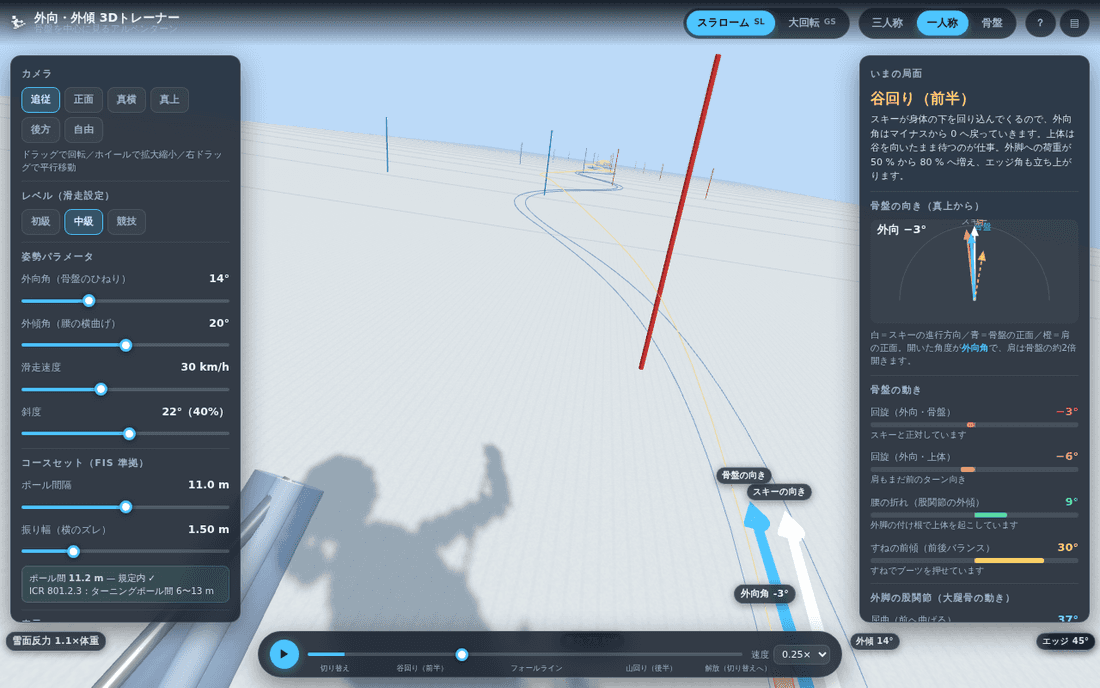
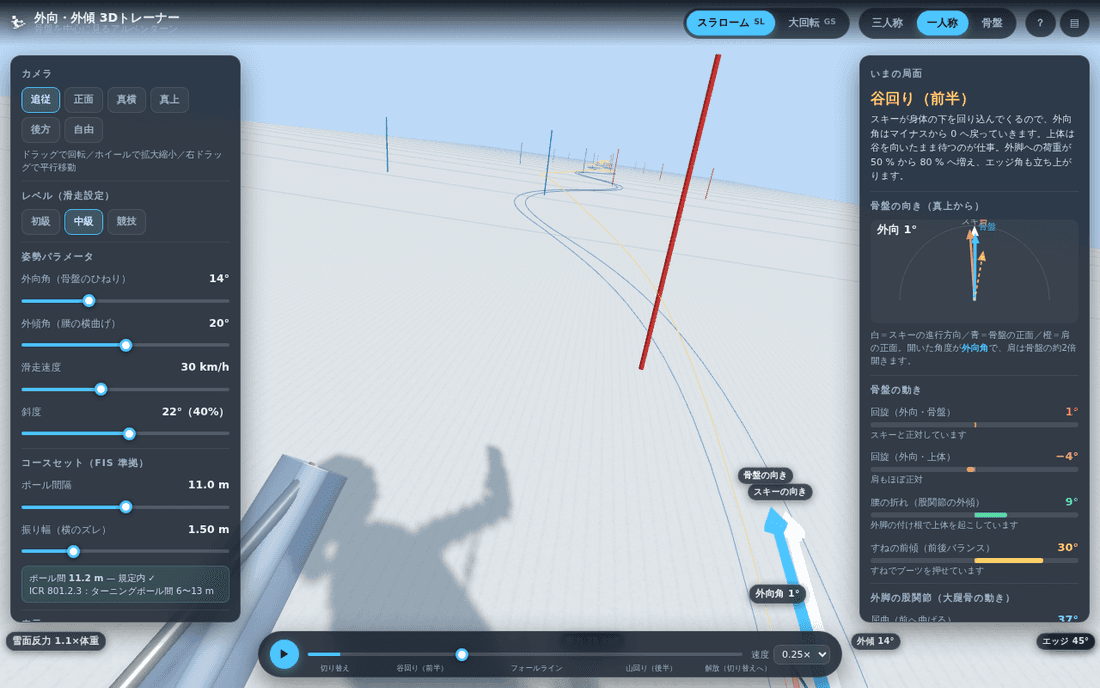
骨盤の解像度を上げ、足元の動きと骨盤を連動させる
■ 足元と骨盤の連動（「足先の動きに対して骨盤が動いていない」への対応）
- 骨盤の向きを、足元から決まる量と結びつけた。
    エッジ角 → スタンス幅・内スキーの先行 → 足のラインの角度
    → そのうち leadToPelvis（SL 0.30／GS 0.26）が骨盤に伝わる
  残りは膝と股関節が吸収する（内足が 30cm 前に出ても骨盤は 6cm）。
- これにより骨盤の外向は「幾何ぶん＋意識ぶん＋足元ぶん」の合成になり、
  足が動いてから骨盤がついてくる順序が出るようになった。
- 数値パネルに「内スキーの先行」と「内腰の先行」を追加し、
  足元と骨盤の関係が数値でも追えるようにした。

■ 骨盤の解像度と作り込み
- 寛骨の分割を細かくした（21,816 → 54,720 頂点）。曲面のカクつきが消えた。
- 腸骨稜の隆起（手が当たる「腰骨」）をチューブで追加。左右で色が入れ替わる。
- 坐骨棘・恥骨結節を追加。
- 仙骨に正中仙骨稜と前仙骨孔（4 対）を追加。
- 寛骨臼を馬蹄形（下に寛骨臼切痕がある形）にした。
- 骨盤の正面矢印を細くして、形が見えるようにした。

Claude-Session: https://claude.ai/code/session_01V4NMV7GVkT2Ez7cynX9W4S

diff --git a/src/pelvis.js b/src/pelvis.js
@@ -189,7 +189,7 @@ function innominateGeometry(S, side) {
     bevelSize: 0.0032, bevelSegments: 2, curveSegments: 3,
   });
   // 立体化で曲げるので、先に面を細かくしておく
-  const geo = subdivideLarge(raw, 0.016, 3);
+  const geo = subdivideLarge(raw, 0.011, 4);
   raw.dispose();
   // (a, s, t) → (x = t, y = s, z = a)
   geo.rotateY(-Math.PI / 2);
@@ -220,6 +220,21 @@ function innominateGeometry(S, side) {
   geo.scale(S, S, S);
   if (side < 0) geo.scale(-1, 1, 1);     // 左側は鏡像
   return geo;
+}
+
+/** 輪郭の一部（名前の並び）を立体に写した点列を返す */
+function landmarkPath(names, S, side, t = 0.006) {
+  return names.map((n) => {
+    const row = OUTLINE.find((r) => r[0] === n);
+    const p = warpInnominate(row[1], row[2], t * thicknessAt(row[2]));
+    return new THREE.Vector3(p.x * S * side, p.y * S, p.z * S);
+  });
+}
+
+/** 点列に沿った丸い隆起（腸骨稜など） */
+function ridgeTube(points, radius, seg = 40) {
+  const curve = new THREE.CatmullRomCurve3(points);
+  return new THREE.TubeGeometry(curve, seg, radius, 10, false);
 }
 
 /** 部位の重みから頂点カラーを塗る */
@@ -324,6 +339,9 @@ export function createPelvis(height = 1.75) {
       emissive: 0x1c2330, emissiveIntensity: 1,
     }),
     sacrum: boneMat(BONE_COLORS.sacrum.hex, { side: THREE.DoubleSide }),
+    sacrumDark: boneMat(0xb07d00, { roughness: 0.7 }),
+    crestR: boneMat(BONE_COLORS.iliumOuter.hex),
+    crestL: boneMat(BONE_COLORS.iliumInner.hex),
     acetabulum: boneMat(0xb4c2d4, { roughness: 0.55, side: THREE.DoubleSide,
       transparent: true, opacity: 0.55, depthWrite: false }),
     asis: new THREE.MeshStandardMaterial({
@@ -333,6 +351,7 @@ export function createPelvis(height = 1.75) {
   };
 
   const parts = { hip: [], sacrum: [], asis: [] };
+  const crestMeshes = {};
   const geos = {};
   const hips = {};
 
@@ -350,12 +369,39 @@ export function createPelvis(height = 1.75) {
     hips[key] = mesh;
 
     /* 寛骨臼（ソケット）：外向きの半球 */
+    // 寛骨臼は完全な球ではなく、下側に切れ込み（寛骨臼切痕）がある馬蹄形
     const cup = new THREE.Mesh(
-      new THREE.SphereGeometry(0.030 * S, 22, 14, 0, Math.PI * 2, 0, Math.PI * 0.52),
+      new THREE.SphereGeometry(0.030 * S, 28, 16, Math.PI * 0.18, Math.PI * 1.64,
+        0, Math.PI * 0.54),
       mats.acetabulum);
     cup.position.set(side * (W + 0.004 * S), HIP.y, HIP.z);
     cup.rotation.z = side > 0 ? -Math.PI / 2 : Math.PI / 2;
     group.add(cup);
+
+    /* 腸骨稜：太い縁の隆起（ここに手が当たる「腰骨」） */
+    const crestGeo = ridgeTube(
+      landmarkPath(['ASIS', 'crest_ant', 'crest_top', 'crest_post', 'PSIS'], S, side),
+      0.009 * S);
+    const crest = new THREE.Mesh(crestGeo, side > 0 ? mats.crestL : mats.crestR);
+    crest.name = 'crest_' + key;
+    crest.position.set(side * W, HIP.y, HIP.z);
+    group.add(crest);
+    crestMeshes[key] = crest;
+
+    /* 坐骨棘（骨盤の内側に突き出す小さな棘） */
+    const spineLM = innominateLandmark('ischial_spine', S);
+    const ischialSpine = new THREE.Mesh(
+      new THREE.SphereGeometry(0.010 * S, 12, 10), mats.ischium);
+    ischialSpine.scale.set(1, 1.3, 0.7);
+    ischialSpine.position.set(side * (W + spineLM.x - 0.004 * S), HIP.y + spineLM.y, HIP.z + spineLM.z);
+    group.add(ischialSpine);
+
+    /* 恥骨結節（下腹部で触れる出っぱり） */
+    const tubLM = innominateLandmark('pubic_tubercle', S);
+    const pubicTub = new THREE.Mesh(
+      new THREE.SphereGeometry(0.009 * S, 12, 10), mats.pubis);
+    pubicTub.position.set(side * (W + tubLM.x), HIP.y + tubLM.y, HIP.z + tubLM.z);
+    group.add(pubicTub);
 
     /* ASIS（上前腸骨棘）マーカー：立体化したあとの実際の位置に置く */
     const lm = innominateLandmark('ASIS', S);
@@ -370,6 +416,34 @@ export function createPelvis(height = 1.75) {
   sacrum.name = 'sacrum';
   group.add(sacrum);
   parts.sacrum.push(sacrum);
+
+  /* 正中仙骨稜（背面のとげとげした隆起）と前仙骨孔（4 対の穴） */
+  const crestPts = [];
+  for (let i = 0; i <= 8; i++) {
+    const t = i / 8;
+    crestPts.push(new THREE.Vector3(0, (0.044 - 0.150 * t) * S,
+      (-0.036 - 0.030 * t - 0.030 * t * t) * S));
+  }
+  const sacralCrest = new THREE.Mesh(
+    ridgeTube(crestPts, 0.007 * S, 24), mats.sacrumDark);
+  sacralCrest.name = 'sacralCrest';
+  group.add(sacralCrest);
+  parts.sacrum.push(sacralCrest);
+
+  for (let i = 0; i < 4; i++) {
+    const t = 0.13 + i * 0.20;
+    const y = (0.044 - 0.150 * t) * S;
+    const z = (-0.030 - 0.030 * t - 0.030 * t * t) * S;
+    const halfW = (0.054 - 0.044 * t) * (1 - 0.15 * t * t) * S;
+    for (const sx of [1, -1]) {
+      const hole = new THREE.Mesh(
+        new THREE.SphereGeometry(0.0062 * S, 10, 8), mats.sacrumDark);
+      hole.scale.set(1, 1.15, 0.5);
+      hole.position.set(sx * halfW * 0.52, y, z + 0.012 * S);
+      group.add(hole);
+      parts.sacrum.push(hole);
+    }
+  }
 
   const coccyx = new THREE.Mesh(
     new THREE.CapsuleGeometry(0.009 * S, 0.026 * S, 4, 8), mats.sacrum);
@@ -391,10 +465,10 @@ export function createPelvis(height = 1.75) {
   /* ---- 骨盤の正面を示す矢印 ---- */
   const facing = new THREE.Group();
   const arrowMat = new THREE.MeshBasicMaterial({ color: 0x4cc3ff });
-  const shaft = new THREE.Mesh(new THREE.CylinderGeometry(0.005 * S, 0.005 * S, 0.20 * S, 10), arrowMat);
-  shaft.position.set(0, 0, 0.16 * S); shaft.rotation.x = Math.PI / 2;
-  const tip = new THREE.Mesh(new THREE.ConeGeometry(0.016 * S, 0.055 * S, 14), arrowMat);
-  tip.position.set(0, 0, 0.288 * S); tip.rotation.x = Math.PI / 2;
+  const shaft = new THREE.Mesh(new THREE.CylinderGeometry(0.0035 * S, 0.0035 * S, 0.15 * S, 10), arrowMat);
+  shaft.position.set(0, 0, 0.145 * S); shaft.rotation.x = Math.PI / 2;
+  const tip = new THREE.Mesh(new THREE.ConeGeometry(0.012 * S, 0.042 * S, 14), arrowMat);
+  tip.position.set(0, 0, 0.241 * S); tip.rotation.x = Math.PI / 2;
   facing.add(shaft, tip);
   facing.position.set(0, -0.010 * S, 0.02 * S);
   group.add(facing);
@@ -413,6 +487,10 @@ export function createPelvis(height = 1.75) {
 
   /* 初期配色 */
   const applyColors = (outerIsRight) => {
+    mats.crestR.color.set(outerIsRight ? BONE_COLORS.iliumOuter.hex : BONE_COLORS.iliumInner.hex);
+    mats.crestL.color.set(outerIsRight ? BONE_COLORS.iliumInner.hex : BONE_COLORS.iliumOuter.hex);
+    mats.crestR.emissive.copy(mats.crestR.color).multiplyScalar(0.10);
+    mats.crestL.emissive.copy(mats.crestL.color).multiplyScalar(0.10);
     paintRegions(geos.R, {
       ilium: outerIsRight ? colors.ilium : colors.iliumIn,
       ischium: colors.ischium, pubis: colors.pubis,

diff --git a/src/kinematics.js b/src/kinematics.js
@@ -112,9 +112,32 @@ export class TurnModel {
     this.loadMin = loadMin; this.loadMax = loadMax; this.radiusMin = rMin;
     this.geomMax = Math.max(...raw.map((d) => Math.abs(d.counterGeom)), 1e-6);
     for (let i = 0; i < raw.length; i++) {
-      shapeMax = Math.max(shapeMax, this._counterShape(raw[i], i / (NS - 1)).pelvis);
+      const ph = i / (NS - 1);
+      shapeMax = Math.max(shapeMax,
+        this._counterShape(raw[i], ph, this._leadYaw(raw[i], ph)).pelvis);
     }
     this.counterShapeMax = Math.max(shapeMax, 1e-6);
+  }
+
+  /**
+   * その位相でのスタンス幅・内足の先行量・足のラインの角度を返す。
+   * どれもエッジ角から決まる「結果」であって、意識して作る量ではない。
+   */
+  _footGeom(edgeAngle) {
+    const P = this.p;
+    const stance = P.stanceWidth * (0.72 + 0.48 * Math.max(0, Math.sin(Math.max(0, edgeAngle))));
+    const lead = Math.min(0.32, stance * Math.tan(
+      THREE.MathUtils.clamp(edgeAngle, 0, rad(78))) * P.leadFactor);
+    return { stance, lead, yaw: Math.atan2(lead, stance) };
+  }
+
+  /** 荷重から推定したエッジ角で足元の角度を求める（正規化用の近似） */
+  _leadYaw(d, phase) {
+    const alpha = rad(this.p.angulationDeg) * Math.pow(
+      THREE.MathUtils.clamp((d.loadBW - this.loadMin) / Math.max(1e-6, this.loadMax - this.loadMin), 0, 1), 0.75);
+    const legLen = this.p.height * 0.46, torsoLen = this.p.height * 0.288;
+    const fr = this.solveFrontal(d.lambda, alpha, legLen, torsoLen);
+    return this._footGeom(fr.phiLeg).yaw;
   }
 
   /**
@@ -122,13 +145,14 @@ export class TurnModel {
    *   幾何ぶん  : 身体はフォールラインを向き続けるので、スキーとの差がそのまま外向になる
    *   意識ぶん  : 山回りでさらに骨盤を外へ向ける動き（後半で立ち上がる）
    */
-  _counterShape(d, phase) {
+  _counterShape(d, phase, leadYaw = 0) {
     const P = this.p;
     const g = d.counterGeom;
     const act = smoothstep(0.15, 0.78, phase) * this.geomMax;
+    // leadYaw: 内足が前に出たぶん、骨盤も引っぱられて外を向く（足元との連動）
     return {
-      pelvis: P.gammaPelvis * g + P.activePelvis * act,
-      spine: P.gammaSpine * g + P.activeSpine * act,
+      pelvis: P.gammaPelvis * g + P.activePelvis * act + P.leadToPelvis * leadYaw,
+      spine: P.gammaSpine * g + P.activeSpine * act + P.leadToPelvis * 0.6 * leadYaw,
     };
   }
 
@@ -238,11 +262,6 @@ export class TurnModel {
     const loadNorm = THREE.MathUtils.clamp(
       (d.loadBW - this.loadMin) / Math.max(1e-6, this.loadMax - this.loadMin), 0, 1);
 
-    // 外向角：骨盤と上体で大きさが違う（上体のほうが大きく谷を向く）
-    const cs = this._counterShape(d, (((u % this.halfCycle) + this.halfCycle) % this.halfCycle) / this.halfCycle);
-    const counter = rad(P.counterDeg) * cs.pelvis / this.counterShapeMax;
-    const counterSpine = rad(P.counterDeg) * cs.spine / this.counterShapeMax;
-
     // 外傾角・膝の角度は荷重に応じて深くなる
     const angulation = rad(P.angulationDeg) * Math.pow(loadNorm, 0.75);
     const kneeAng = rad(P.kneeAngulationDeg) * Math.pow(loadNorm, 0.75);
@@ -268,10 +287,16 @@ export class TurnModel {
      * スタンス幅とトップの前後差（内スキーの先行）は、意識して作るものではなく
      * エッジ角の結果として現れる。エッジが寝れば自然に消える。 */
     const phase0 = (((u % this.halfCycle) + this.halfCycle) % this.halfCycle) / this.halfCycle;
-    const edgeSin = Math.max(0, Math.sin(Math.max(0, edgeAngle)));
-    const stance = P.stanceWidth * (0.72 + 0.48 * edgeSin);
-    const innerLead = Math.min(0.32, stance * Math.tan(
-      THREE.MathUtils.clamp(edgeAngle, 0, rad(78))) * P.leadFactor);
+    const fg = this._footGeom(edgeAngle);
+    const stance = fg.stance;
+    const innerLead = fg.lead;
+
+    /* --- 外向角 ---
+     * 幾何ぶん（身体は谷を向き続ける）＋ 意識ぶん（山回りで作る）
+     * ＋ 足元ぶん（内足が前に出たぶん骨盤も引っぱられる）*/
+    const cs = this._counterShape(d, phase0, fg.yaw);
+    const counter = rad(P.counterDeg) * cs.pelvis / this.counterShapeMax;
+    const counterSpine = rad(P.counterDeg) * cs.spine / this.counterShapeMax;
 
     const trackCenter = this.trackPoint(u);
     const half = stance / 2;

diff --git a/src/ui.js b/src/ui.js
@@ -94,6 +94,8 @@ export class UI {
       { k: 'edge', label: 'エッジ角', unit: '°' },
       { k: 'load', label: '外脚が支える力', unit: '体重比' },
       { k: 'share', label: '外脚の荷重配分', unit: '%' },
+      { k: 'lead', label: '内スキーの先行', unit: 'cm' },
+      { k: 'hipLead', label: '内腰の先行', unit: 'cm' },
       { k: 'carve', label: 'カービング判定', unit: '', wide: true },
     ];
     this.motionDefs = [
@@ -380,6 +382,8 @@ export class UI {
     set('edge', deg(s.edgeAngle).toFixed(0));
     set('load', s.loadBW.toFixed(2));
     set('share', (s.outerShare * 100).toFixed(0));
+    set('lead', ((s.innerLead ?? 0) * 100).toFixed(0));
+    set('hipLead', ((extra?.hipLead ?? 0) * 100).toFixed(0));
     const carveTxt = s.carving
       ? `カービング可（必要 ${deg(s.edgeNeeded).toFixed(0)}° ≦ 実際 ${deg(s.edgeAngle).toFixed(0)}°）`
       : `ずれる（必要 ${deg(s.edgeNeeded).toFixed(0)}° ＞ 実際 ${deg(s.edgeAngle).toFixed(0)}°）`;

diff --git a/src/constants.js b/src/constants.js
@@ -101,6 +101,7 @@ export const DISCIPLINES = {
     gammaPelvis: 0.55, activePelvis: 0.25,
     gammaSpine: 1.15, activeSpine: 0.45,
     innerEdgeExtraDeg: 5,   // 内スキーは外より少し多く傾ける
+    leadToPelvis: 0.30,     // 内足の先行が骨盤の向きに伝わる割合
     leadFactor: 0.32,
     desc: '小さく速いターン。上体を谷へ向けたまま脚だけを切り替えるので、外向が大きく出ます。骨盤より肩のほうが大きく谷を向きます。',
   },
@@ -135,6 +136,7 @@ export const DISCIPLINES = {
     gammaPelvis: 0.38, activePelvis: 0.18,
     gammaSpine: 0.85, activeSpine: 0.32,
     innerEdgeExtraDeg: 4,
+    leadToPelvis: 0.26,
     leadFactor: 0.32,
     desc: '大きく長いターン。内傾が深くなる一方で骨盤の外向は控えめで、スキーに対してほぼ正対したまま外傾で外スキーを押し続けます。',
   },

diff --git a/src/main.js b/src/main.js
@@ -86,6 +86,7 @@ function makeModel(d, ghost = false) {
     gammaPelvis: d.gammaPelvis, activePelvis: d.activePelvis,
     gammaSpine: d.gammaSpine, activeSpine: d.activeSpine,
     innerEdgeExtraDeg: d.innerEdgeExtraDeg, leadFactor: d.leadFactor,
+    leadToPelvis: d.leadToPelvis,
     skiSidecutR: d.skiSidecutR,
     height: ANTHRO.height, mass: ANTHRO.mass,
   });
@@ -357,7 +358,7 @@ function tick() {
   }
   forceView.update(s);
   guides.update(s, skier);
-  ui.update(s);
+  ui.update(s, { hipLead: skier.state.angles.hipLead ?? 0 });
   ui.updateMotions(pelvisMotions(s));
   ui.updateMotions(hipMotions(), 'hip');
   updateLabels(s);

diff --git a/src/skier.js b/src/skier.js
@@ -453,6 +453,10 @@ export function createSkier(opts = {}) {
     const rot = sgn * Math.acos(THREE.MathUtils.clamp(a1.dot(a2), -1, 1));
     state.angles.hipRotation = -rot * sgnOut;   // 内旋を + にする
     state.outerSide = outerSide;
+    // 内腰がどれだけ前に出ているか（足元の先行が骨盤に伝わった量）
+    const innerHip = outwardIsRight ? hipL : hipR;
+    const outerHip = outwardIsRight ? hipR : hipL;
+    state.angles.hipLead = innerHip.clone().sub(outerHip).dot(s.tangent);
 
     return state;
   }

diff --git a/README.md b/README.md
@@ -106,7 +106,7 @@ F雪面 = m (a − g)            a = v²/R（求心加速度）
 ![pelvis](docs/images/pelvis.png)
 
 寛骨は、外から見た輪郭（上前腸骨棘・腸骨稜・坐骨結節・恥骨結合など）と閉鎖孔から
-立体を起こし、腸骨（外側＝赤／内側＝緑）・坐骨（紫）・恥骨（青）を頂点カラーで
+立体を起こし、腸骨稜の隆起・坐骨棘・恥骨結節・仙骨の正中稜と仙骨孔まで作り込んで、腸骨（外側＝赤／内側＝緑）・坐骨（紫）・恥骨（青）を頂点カラーで
 塗り分けています。3 つの骨は寛骨臼（股関節のソケット）で癒合しているので、
 その周辺では色がなめらかに移り変わります。仙骨は黄、上前腸骨棘はピンク、
 大腿骨頭と大転子は白。ラベルは実際の形状から計算した位置に出ます。
@@ -157,6 +157,8 @@ F雪面 = m (a − g)            a = v²/R（求心加速度）
 - **トップの前後差とスタンス幅**をエッジ角から計算（意識して作るものではなく結果）
 - **前後のポジション**が前半で前・後半で後ろに動く
 - **内スキーのエッジ角**を外スキーより 4〜5° 多く
+- **足元と骨盤の連動**：内スキーの先行（トップの前後差）が骨盤の向きに伝わるようにした。
+  数値パネルで「内スキーの先行」と「内腰の先行」が並んで動きます
 
 ## モデルの前提（正直な注意書き）
 

diff --git a/docs/REFERENCES.md b/docs/REFERENCES.md
@@ -166,6 +166,28 @@ D. A. Winter, *Biomechanics and Motor Control of Human Movement*, 4th ed. (Wiley
 ※ 最後の 1 件はコーチングの技術資料であり、査読論文ではありません。数値は「実勢値」
 として扱っています。
 
+## 4.6 足元と骨盤の連動
+
+「足先の動きに対して骨盤が動いていない」を直すため、骨盤の向きを足元から
+決まる量と結びつけました。
+
+```
+エッジ角 → スタンス幅・内スキーの先行（トップの前後差）
+        → 足のラインの角度 atan(先行 / スタンス)
+        → そのうち leadToPelvis（SL 0.30／GS 0.26）が骨盤の向きに伝わる
+```
+
+残りは膝と股関節が吸収します（内足が 30 cm 前に出ても、骨盤は 6 cm ぶんしか
+前に出ない）。数値パネルに「内スキーの先行」と「内腰の先行」を並べたので、
+足元が動いてから骨盤がついてくる関係が読めます。
+
+| 位相 | 内スキーの先行 | 内腰の先行 | 骨盤の外向 |
+|---|---|---|---|
+| 切り替え | 0 cm | −3 cm | −10° |
+| 谷回り | 12 cm | −1 cm | −3° |
+| フォールライン | 29 cm | +4 cm | +12° |
+| 山回り | 26 cm | +6 cm | +19° |
+
 ## 5. 下肢の骨の寸法
 
 `src/leg.js`。身長 1.75 m のときの値と、成人男性の実測値の目安。
